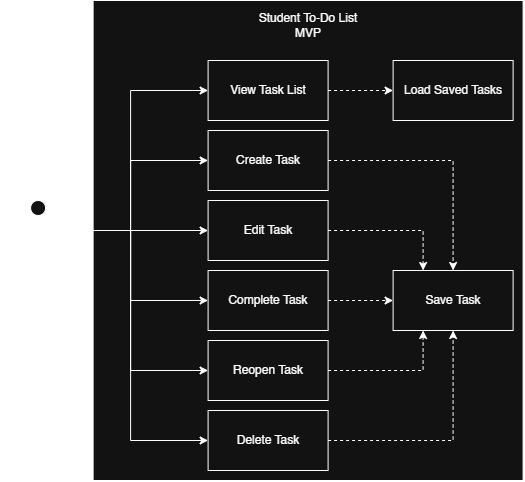
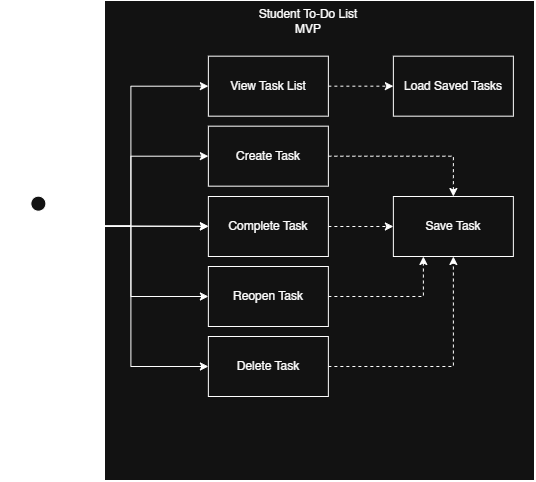
update: srs uml diagrams

diff --git a/docs/srs.md b/docs/srs.md
@@ -33,7 +33,6 @@ This SRS documents the MVP's requirements and boundaries for **Milestone 2**. Mo
 | --------- | --------------------------------------------------------------------------------- | -------------------------- |
 | 1         | As a busy user, I want to capture a task so I can remember work I need to do.     | Create Tasks Functionality |
 | 2         | As a user, I want to see my tasks together so I can plan my work.                 | View Task List             |
-| 3         | As a user, I want to correct task details so my list stays accurate.              | Edit Tasks                 |
 | 4         | As a user, I want to mark work complete and reopen it so progress stays accurate. | Complete and Reopen Tasks  |
 | 5         | As a user, I want to remove unwanted tasks so my list stays useful.               | Delete Tasks Safely        |
 | 8         | As a user, I want to save tasks so my list persists after closing                 | Save Tasks Between Visits  |
@@ -44,7 +43,6 @@ This SRS documents the MVP's requirements and boundaries for **Milestone 2**. Mo
 | ------------- | ---------------------------------------------------------------------------------------------------- |
 | 1             | The application should allow users to create a task with a title.                                    |
 | 2             | The application should display saved tasks and indicate whether each is complete or incomplete.      |
-| 3             | The application should allow users to edit an existing task's title.                                 |
 | 4             | The application should allow users to mark tasks complete and reopen completed tasks.                |
 | 5             | The application should allow users to delete a selected task.                                        |
 | 8             | The application shall save task changes to a plain-text file and reload them in a later program run. |
@@ -70,7 +68,6 @@ This SRS documents the MVP's requirements and boundaries for **Milestone 2**. Mo
 | --------------- | ------------------------------------------- | ------------------------------------------------------ |
 | Create task     | User enters a new task title.               | The task is saved and appears in the list.             |
 | View tasks      | User requests the task list.                | Saved tasks and their completion status are displayed. |
-| Edit task       | User selects a task and changes its title.  | The updated task is saved.                             |
 | Complete/reopen | User selects a task and changes its status. | The new status is saved.                               |
 | Delete task     | User selects a task for deletion.           | The task is deleted.                                   |
 
